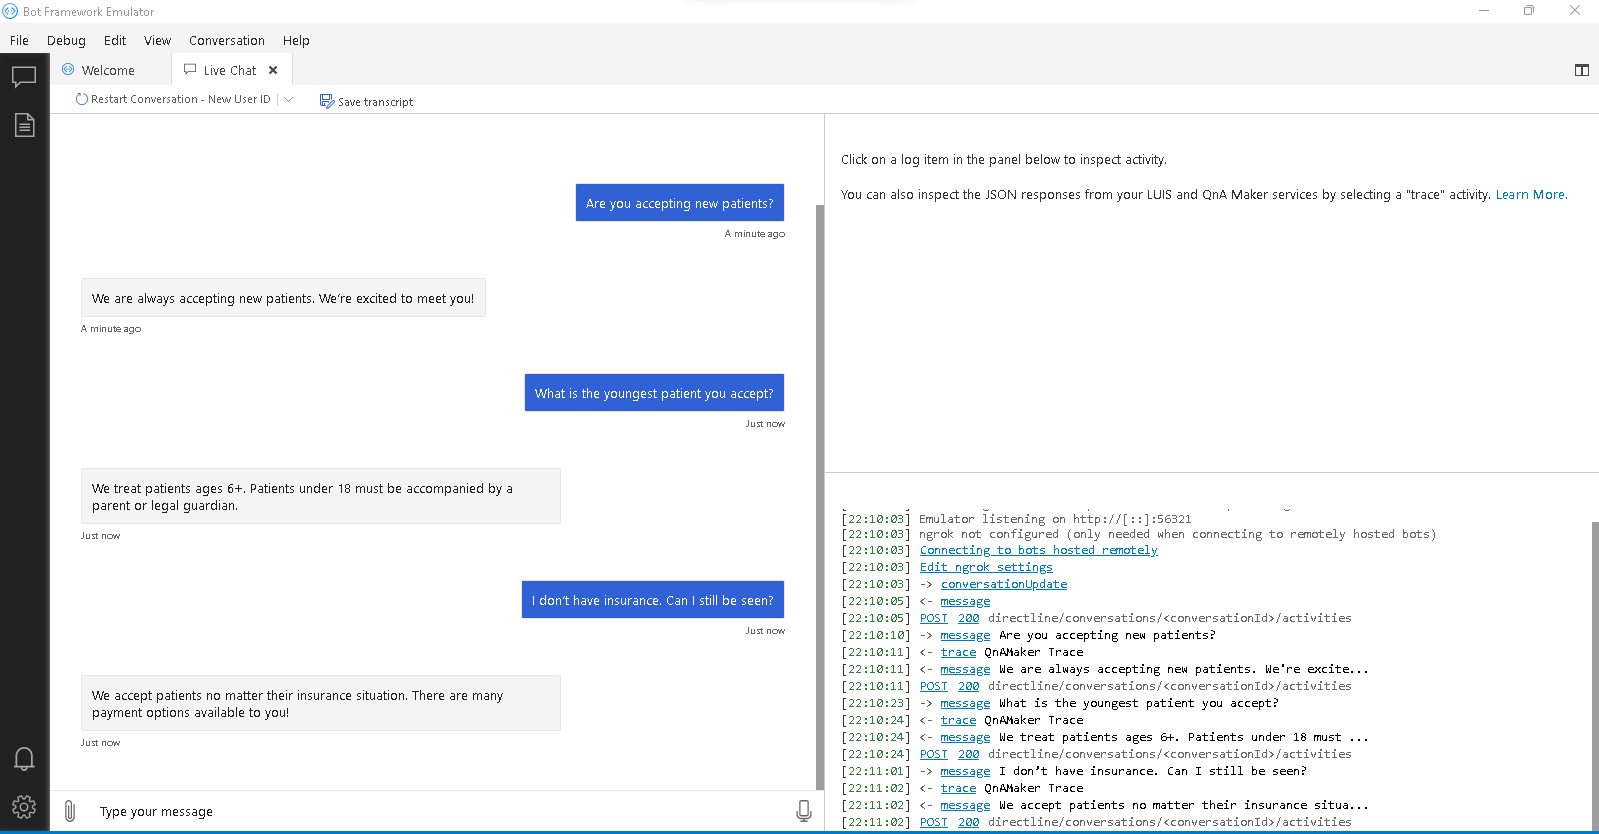
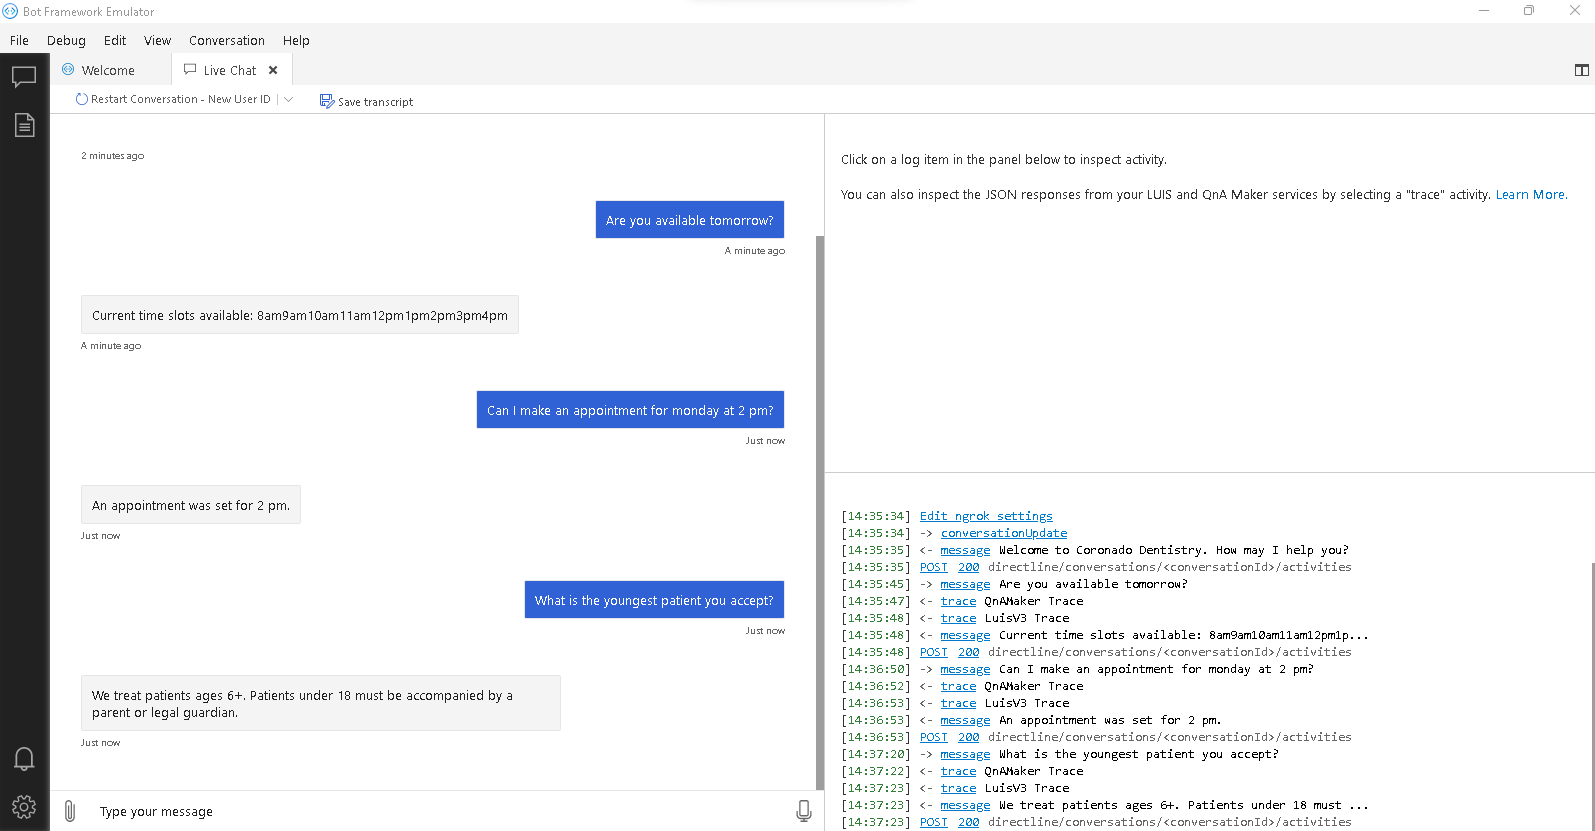
Some improvements

diff --git a/starter/ContosoDentistryChatBot/bot.js b/starter/ContosoDentistryChatBot/bot.js
@@ -17,58 +17,42 @@ class DentaBot extends ActivityHandler {
         this.QnAMaker = new QnAMaker(configuration.QnAConfiguration, qnaOptions);
 
         // create a DentistScheduler connector
+        this.DentistScheduler = new DentistScheduler(configuration.SchedulerConfiguration);
 
         // create a IntentRecognizer connector
         this.IntentRecognizer = new IntentRecognizer(configuration.LuisConfiguration);
 
         this.onMessage(async (context, next) => {
-            // send user input to IntentRecognizer and collect the response in a variable
+            try {
+                // send user input to QnA Maker and collect the response in a variable
+                const qnaResults = await this.QnAMaker.getAnswers(context);
 
-            // Send user input to LUIS
-            const LuisResult = await this.IntentRecognizer.executeLuisQuery(context);
+                // send user input to IntentRecognizer and collect the response in a variable
+                const luisResult = await this.IntentRecognizer.executeLuisQuery(context);
 
-            // determine which service to respond with based on the results from LUIS //
-            if (LuisResult.luisResult.prediction.topIntent === 'ScheduleAppointment' &&
-                LuisResult.intents.ScheduleAppointment.score > 0.6 &&
-                LuisResult.entities.$instance &&
-                LuisResult.entities.$instance.time &&
-                LuisResult.entities.$instance.time[0]
-            ) {
-                const time = LuisResult.entities.$instance.time[0].text;
-                // Call api with time entity info
-                const getAppointmentTime = `You can book an appointment at ${time}.`;
-                console.log(getAppointmentTime);
-                await context.sendActivity(getAppointmentTime);
-                await next();
-                return;
-            }
+                const topIntent = luisResult.luisResult.prediction.topIntent;
 
-            if (LuisResult.luisResult.prediction.topIntent === 'GetAvailability' &&
-                LuisResult.intents.GetAvailability.score > 0.6 &&
-                LuisResult.entities.$instance &&
-                LuisResult.entities.$instance.date &&
-                LuisResult.entities.$instance.date[0]
-            ) {
-                const date = LuisResult.entities.$instance.date[0].text;
-                // Call api with date entity info
-                const getAvailabilityDate = `The dentist will be available on ${date}.`;
-                console.log(getAvailabilityDate);
-                await context.sendActivity(getAvailabilityDate);
-                await next();
-                return;
-            }
+                let message;
 
-            await next();
+                if (luisResult.intents[topIntent].score > 0.65) {
+                    if (topIntent === 'GetAvailability') {
+                        message = await this.DentistScheduler.getAvailability();
+                    } else if (topIntent === 'ScheduleAppointment') {
+                        message = await this.DentistScheduler.scheduleAppointment(this.IntentRecognizer.getTimeEntity(luisResult));
+                    };
+                } else if (qnaResults[0]) {
+                    // If an answer was received from QnA Maker, send the answer back to the user.
+                    message = qnaResults[0].answer;
+                }
 
-            // send user input to QnA Maker and collect the response in a variable
-            const qnaResults = await this.QnAMaker.getAnswers(context);
-            // If an answer was received from QnA Maker, send the answer back to the user.
-            if (qnaResults[0]) {
-                console.log(qnaResults[0]);
-                await context.sendActivity(`${qnaResults[0].answer}`);
-            } else {
-                // If no answers were returned from QnA Amker, reply with help.
-                await context.sendActivity("I'm not sure what you are talking about. You can ask me questions about your dental session like can I book an appointment tomorrow at 11:45 am?");
+                if (!message) {
+                    // If no answers were returned from the services, reply with help.
+                    message = "I'm not sure what you are talking about. You can ask me questions about your dental session like can I book an appointment tomorrow at 11:45 am?"
+                }
+
+                await context.sendActivity(message);
+            } catch (e) {
+                console.error(e);
             }
 
             await next();
@@ -77,7 +61,7 @@ class DentaBot extends ActivityHandler {
         this.onMembersAdded(async (context, next) => {
             const membersAdded = context.activity.membersAdded;
             // write a custom greeting
-            const welcomeText = '';
+            const welcomeText = 'Welcome to Coronado Dentistry. How may I help you?';
             for (let cnt = 0; cnt < membersAdded.length; ++cnt) {
                 if (membersAdded[cnt].id !== context.activity.recipient.id) {
                     await context.sendActivity(MessageFactory.text(welcomeText, welcomeText));

diff --git a/starter/ContosoDentistryChatBot/dentistscheduler.js b/starter/ContosoDentistryChatBot/dentistscheduler.js
@@ -1,22 +1,21 @@
 class DentistScheduler {
     constructor(configuration) {
         this.getAvailability = async () => {
-            const response = await fetch(configuration.SchedulerEndpoint + "availability")
-            const times = await response.json()
-            let responseText = `Current time slots available: `
+            const response = await fetch(configuration.SchedulerEndpoint + 'availability');
+            const times = await response.json();
+            let responseText = 'Current time slots available: ';
             times.map(time => {
-                responseText += `
-${time}`
-            })
-            return responseText
-        }
+                responseText += `${time}`;
+            });
+            return responseText;
+        };
 
         this.scheduleAppointment = async (time) => {
-            const response = await fetch(configuration.SchedulerEndpoint + "schedule", { method: "post", body: { time: time } })
-            let responseText = `An appointment is set for ${time}.`
-            return responseText
-        }
+            await fetch(configuration.SchedulerEndpoint + 'schedule', { method: 'post', body: { time: time } });
+            const responseText = `An appointment was set for ${time}.`;
+            return responseText;
+        };
     }
 }
 
-module.exports = DentistScheduler
+module.exports = DentistScheduler;

diff --git a/starter/ContosoDentistryChatBot/intentrecognizer.js b/starter/ContosoDentistryChatBot/intentrecognizer.js
@@ -26,16 +26,11 @@ class IntentRecognizer {
         return await this.recognizer.recognize(context);
     }
 
-
     getTimeEntity(result) {
-        const datetimeEntity = result.entities.datetime;
-        if (!datetimeEntity || !datetimeEntity[0]) return undefined;
-
-        const timex = datetimeEntity[0].timex;
-        if (!timex || !timex[0]) return undefined;
-
-        const datetime = timex[0];
-        return datetime;
+        const timeEntity = result.entities.time;
+        if (!timeEntity || !timeEntity[0]) return undefined;
+        const time = timeEntity[0];
+        return time;
     }
 }
 

diff --git a/starter/ContosoDentistryChatBot/index.js b/starter/ContosoDentistryChatBot/index.js
@@ -65,18 +65,18 @@ const QnAConfiguration = {
 const LuisConfiguration = {
     applicationId: process.env.LuisAppId,
     endpointKey: process.env.LuisAPIKey,
-    endpoint: process.env.LuisAPIHostName,
-}
+    endpoint: process.env.LuisAPIHostName
+};
 
 const SchedulerConfiguration = {
     SchedulerEndpoint: process.env.SchedulerEndpoint
-}
-//pack each service configuration into 
+};
+// pack each service configuration into
 const configuration = {
     QnAConfiguration,
     LuisConfiguration,
     SchedulerConfiguration
-}
+};
 
 // Create the main dialog.
 const myBot = new DentaBot(configuration, {});
